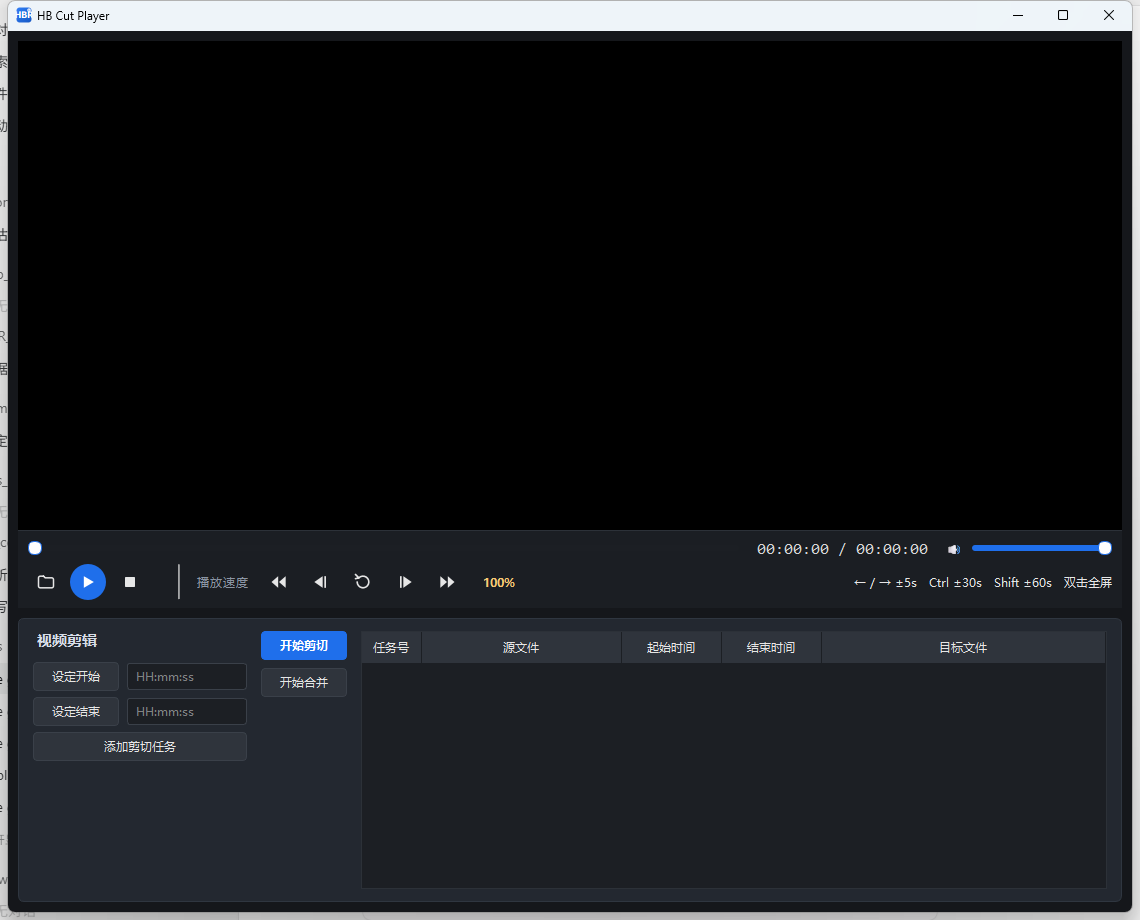
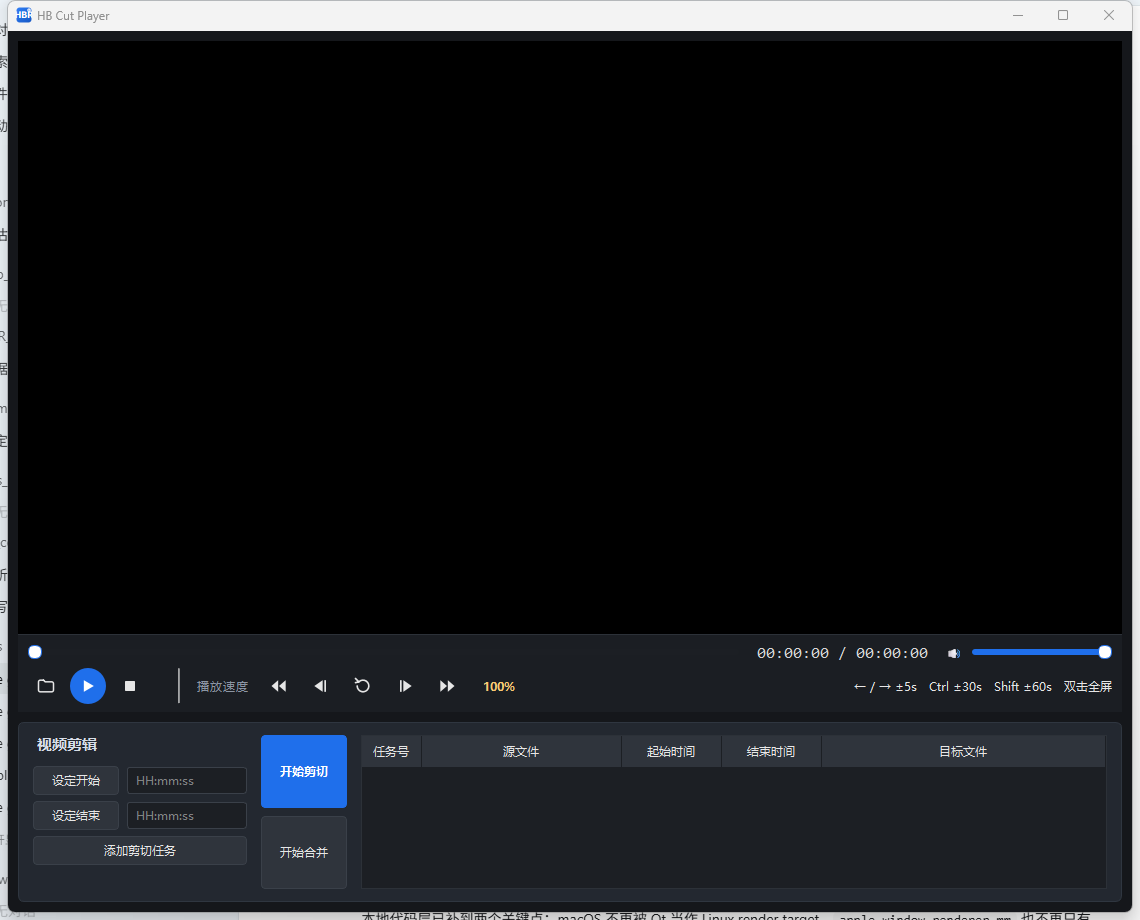
ui(player): 收紧剪辑面板高度，让两个动作按钮顶满到底部
- workCard 限制 maximumHeight=180，剪辑面板只包住"添加剪切任务"高度
- 在"添加剪切任务"下方加 Expanding 垂直 spacer，把表单钉到顶部
- 开始剪切 / 开始合并：垂直 sizePolicy 改为 Expanding 并且 verstretch 相等，
  两个按钮高度一致并一直延伸到剪辑面板底部
- tableCutTask 取消 minimumHeight，改为 Preferred 垂直，跟随面板高度
- README 同步：补“输出文件命名规则”小节，删掉已经实现的“合并”TODO

diff --git a/README.md b/README.md
@@ -61,12 +61,23 @@ powershell -NoProfile -ExecutionPolicy Bypass -File scripts/build.ps1
 - **进度跳转**：← / → = ±5s，Ctrl + ← / → = ±30s，Shift + ← / → = ±60s
 - **倍速**：±5%、±10% 微调，⟳ 一键回到 1.0×
 - **全屏**：双击视频区域切换；Esc 退出全屏
-- **剪切**：在“剪切”页用“设定开始 / 设定结束”按钮捕捉当前时间点，命名后“添加任务”→“开始剪切”
+- **剪切**：用“设定开始 / 设定结束”捕捉当前时间点，点“添加剪切任务”
+  即可加入下方的任务列表；点“开始剪切”按列表顺序逐个剪切
+- **合并**：当前源视频已经剪好的所有片段，点“开始合并”一键拼成一个新文件
+
+### 输出文件命名规则
+
+| 操作 | 命名 |
+|------|------|
+| 添加剪切任务 | 与源视频同目录，`<源文件名>_1.<ext>`、`_2`、`_3` … 递增；同名直接覆盖；切换源视频时计数器归零 |
+| 开始合并 | `<源文件名>_new.<ext>`；若已存在则改为 `_new_1`、`_new_2` … 不会覆盖 |
+
+例如源视频是 `C:/x.mp4`：`x_1.mp4`、`x_2.mp4` … 加完任务并完成剪切后，再点
+“开始合并”得到 `C:/x_new.mp4`（已存在则 `x_new_1.mp4`）。
 
 ## 开发计划
 
 - 把 ffmpeg 进程调用改为 ffmpeg API
-- 完成“合并”页
 - 视频解码改走 ffmpeg + 自渲染，去掉对系统 VLC 的依赖
 - 跨平台支持
 